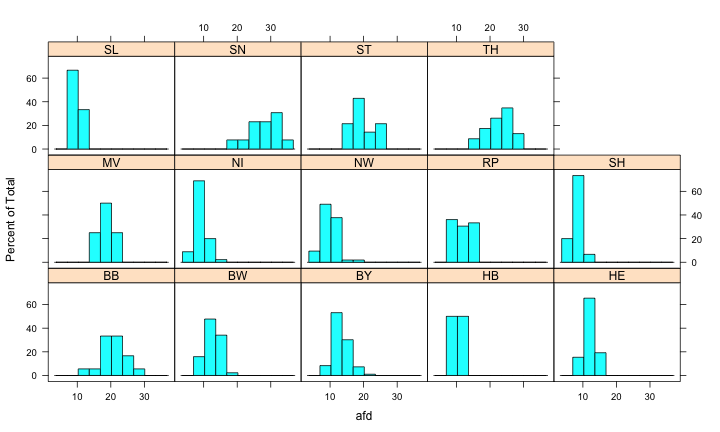
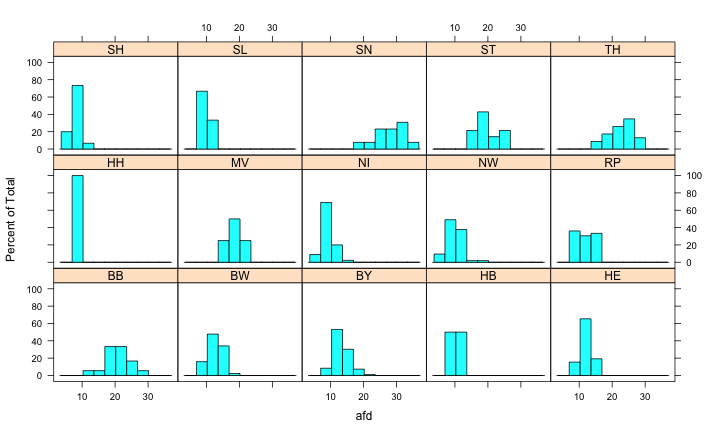
logistic regression

diff --git a/docs/f_statistics.html b/docs/f_statistics.html
@@ -23,7 +23,6 @@ class: center, middle, inverse, title-slide
 
 
 
-
 # Vorbereitungen
 
 Die Folien nutzen den Datensatz `corona_by_county`, der ab v0.0.3 im [learningR]()-Paket enthalten ist. Die Tabelle enthält zur Corona-Pandemie etliche Variablen auf Kreisebene (Landkreise, kreisfreie Städte).
@@ -175,10 +174,10 @@ head(county_data_aggr, 3)
 ```
 
 ```
-##        mean        sd
-## SH 23.27333 2.2269347
-## NI 22.68889 2.5623340
-## HB 21.50000 0.7071068
+##        mean       sd
+## SH 23.27333 2.226935
+## HH 18.20000       NA
+## NI 22.68889 2.562334
 ```
 
 ---
@@ -208,10 +207,10 @@ head(county_data_aggr, 3)
 ```
 
 ```
-##   region     mean        sd
-## 1     SH 23.27333 2.2269347
-## 2     NI 22.68889 2.5623340
-## 3     HB 21.50000 0.7071068
+##   region     mean       sd
+## 1     SH 23.27333 2.226935
+## 2     HH 18.20000       NA
+## 3     NI 22.68889 2.562334
 ```
 
 ---
@@ -230,14 +229,14 @@ corona_by_county %&gt;%
 
 ```
 ## # A tibble: 6 x 3
-##   region  mean    sd
-##   &lt;chr&gt;  &lt;dbl&gt; &lt;dbl&gt;
-## 1 BB      25.6 2.71 
-## 2 BW      20.5 1.76 
-## 3 BY      21.2 1.99 
-## 4 HB      21.5 0.707
-## 5 HE      21.5 2.57 
-## 6 MV      25.2 1.08
+##   region  mean     sd
+##   &lt;chr&gt;  &lt;dbl&gt;  &lt;dbl&gt;
+## 1 BB      25.6  2.71 
+## 2 BW      20.5  1.76 
+## 3 BY      21.2  1.99 
+## 4 HB      21.5  0.707
+## 5 HE      21.5  2.57 
+## 6 HH      18.2 NA
 ```
 
 ---
@@ -254,19 +253,20 @@ dt[!is.na(region), list(mean = mean(.SD$agequot), sd = sd(.SD$agequot)), by = "r
 ```
 ##     region     mean        sd
 ##  1:     SH 23.27333 2.2269347
-##  2:     NI 22.68889 2.5623340
-##  3:     HB 21.50000 0.7071068
-##  4:     NW 21.42075 1.5197872
-##  5:     HE 21.48462 2.5671295
-##  6:     RP 22.37500 2.0793371
-##  7:     BW 20.51591 1.7590885
-##  8:     BY 21.24687 1.9945163
-##  9:     SL 24.31667 0.9368387
-## 10:     BB 25.56667 2.7062020
-## 11:     MV 25.22500 1.0819955
-## 12:     SN 27.33846 3.0357697
-## 13:     ST 27.22143 2.3664900
-## 14:     TH 26.63043 2.6929934
+##  2:     HH 18.20000        NA
+##  3:     NI 22.68889 2.5623340
+##  4:     HB 21.50000 0.7071068
+##  5:     NW 21.42075 1.5197872
+##  6:     HE 21.48462 2.5671295
+##  7:     RP 22.37500 2.0793371
+##  8:     BW 20.51591 1.7590885
+##  9:     BY 21.24687 1.9945163
+## 10:     SL 24.31667 0.9368387
+## 11:     BB 25.56667 2.7062020
+## 12:     MV 25.22500 1.0819955
+## 13:     SN 27.33846 3.0357697
+## 14:     ST 27.22143 2.3664900
+## 15:     TH 26.63043 2.6929934
 ```
 
 ---
@@ -341,18 +341,18 @@ summary(r)
 ## 
 ## Residuals:
 ##     Min      1Q  Median      3Q     Max 
-## -62.016 -20.235  -4.869  15.037 170.976 
+## -62.035 -20.107  -4.908  15.067 171.005 
 ## 
 ## Coefficients:
 ##             Estimate Std. Error t value Pr(&gt;|t|)    
-## (Intercept)  38.9239     4.0783   9.544  &lt; 2e-16 ***
-## afd           1.8428     0.2827   6.519 2.16e-10 ***
+## (Intercept)  38.7553     4.0659   9.532  &lt; 2e-16 ***
+## afd           1.8520     0.2821   6.565 1.63e-10 ***
 ## ---
 ## Signif. codes:  0 '***' 0.001 '**' 0.01 '*' 0.05 '.' 0.1 ' ' 1
 ## 
-## Residual standard error: 30.09 on 397 degrees of freedom
-## Multiple R-squared:  0.09668,	Adjusted R-squared:  0.09441 
-## F-statistic: 42.49 on 1 and 397 DF,  p-value: 2.158e-10
+## Residual standard error: 30.07 on 398 degrees of freedom
+## Multiple R-squared:  0.09771,	Adjusted R-squared:  0.09544 
+## F-statistic:  43.1 on 1 and 398 DF,  p-value: 1.626e-10
 ```
 
 ---
@@ -381,21 +381,21 @@ str(summary(r))
 ##   .. ..- attr(*, "predvars")= language list(cases7_per_100k, afd)
 ##   .. ..- attr(*, "dataClasses")= Named chr [1:2] "numeric" "numeric"
 ##   .. .. ..- attr(*, "names")= chr [1:2] "cases7_per_100k" "afd"
-##  $ residuals    : Named num [1:399] -47.2 -7.88 -11.91 -14.26 -45.76 ...
-##   ..- attr(*, "names")= chr [1:399] "1" "2" "3" "4" ...
-##  $ coefficients : num [1:2, 1:4] 38.924 1.843 4.078 0.283 9.544 ...
+##  $ residuals    : Named num [1:400] -47.1 -7.77 -11.83 -14.19 -45.67 ...
+##   ..- attr(*, "names")= chr [1:400] "1" "2" "3" "4" ...
+##  $ coefficients : num [1:2, 1:4] 38.755 1.852 4.066 0.282 9.532 ...
 ##   ..- attr(*, "dimnames")=List of 2
 ##   .. ..$ : chr [1:2] "(Intercept)" "afd"
 ##   .. ..$ : chr [1:4] "Estimate" "Std. Error" "t value" "Pr(&gt;|t|)"
 ##  $ aliased      : Named logi [1:2] FALSE FALSE
 ##   ..- attr(*, "names")= chr [1:2] "(Intercept)" "afd"
 ##  $ sigma        : num 30.1
-##  $ df           : int [1:3] 2 397 2
-##  $ r.squared    : num 0.0967
-##  $ adj.r.squared: num 0.0944
-##  $ fstatistic   : Named num [1:3] 42.5 1 397
+##  $ df           : int [1:3] 2 398 2
+##  $ r.squared    : num 0.0977
+##  $ adj.r.squared: num 0.0954
+##  $ fstatistic   : Named num [1:3] 43.1 1 398
 ##   ..- attr(*, "names")= chr [1:3] "value" "numdf" "dendf"
-##  $ cov.unscaled : num [1:2, 1:2] 1.84e-02 -1.18e-03 -1.18e-03 8.83e-05
+##  $ cov.unscaled : num [1:2, 1:2] 0.018287 -0.001179 -0.001179 0.000088
 ##   ..- attr(*, "dimnames")=List of 2
 ##   .. ..$ : chr [1:2] "(Intercept)" "afd"
 ##   .. ..$ : chr [1:2] "(Intercept)" "afd"
@@ -482,13 +482,13 @@ stargazer::stargazer(
 &lt;tr&gt;&lt;td colspan="5" style="border-bottom: 1px solid black"&gt;&lt;/td&gt;&lt;/tr&gt;&lt;tr&gt;&lt;td style="text-align:left"&gt;&lt;/td&gt;&lt;td colspan="4"&gt;&lt;em&gt;Dependent variable:&lt;/em&gt;&lt;/td&gt;&lt;/tr&gt;
 &lt;tr&gt;&lt;td&gt;&lt;/td&gt;&lt;td colspan="4" style="border-bottom: 1px solid black"&gt;&lt;/td&gt;&lt;/tr&gt;
 &lt;tr&gt;&lt;td style="text-align:left"&gt;&lt;/td&gt;&lt;td&gt;(1)&lt;/td&gt;&lt;td&gt;(2)&lt;/td&gt;&lt;td&gt;(3)&lt;/td&gt;&lt;td&gt;(4)&lt;/td&gt;&lt;/tr&gt;
-&lt;tr&gt;&lt;td colspan="5" style="border-bottom: 1px solid black"&gt;&lt;/td&gt;&lt;/tr&gt;&lt;tr&gt;&lt;td style="text-align:left"&gt;foreign_pop_share&lt;/td&gt;&lt;td&gt;0.181&lt;sup&gt;***&lt;/sup&gt; (0.043)&lt;/td&gt;&lt;td&gt;0.200&lt;sup&gt;***&lt;/sup&gt; (0.045)&lt;/td&gt;&lt;td&gt;0.331&lt;sup&gt;***&lt;/sup&gt; (0.043)&lt;/td&gt;&lt;td&gt;0.424&lt;sup&gt;***&lt;/sup&gt; (0.069)&lt;/td&gt;&lt;/tr&gt;
+&lt;tr&gt;&lt;td colspan="5" style="border-bottom: 1px solid black"&gt;&lt;/td&gt;&lt;/tr&gt;&lt;tr&gt;&lt;td style="text-align:left"&gt;foreign_pop_share&lt;/td&gt;&lt;td&gt;0.179&lt;sup&gt;***&lt;/sup&gt; (0.043)&lt;/td&gt;&lt;td&gt;0.200&lt;sup&gt;***&lt;/sup&gt; (0.045)&lt;/td&gt;&lt;td&gt;0.331&lt;sup&gt;***&lt;/sup&gt; (0.043)&lt;/td&gt;&lt;td&gt;0.424&lt;sup&gt;***&lt;/sup&gt; (0.069)&lt;/td&gt;&lt;/tr&gt;
 &lt;tr&gt;&lt;td style="text-align:left"&gt;income&lt;/td&gt;&lt;td&gt;&lt;/td&gt;&lt;td&gt;-0.071 (0.054)&lt;/td&gt;&lt;td&gt;0.064 (0.051)&lt;/td&gt;&lt;td&gt;0.024 (0.055)&lt;/td&gt;&lt;/tr&gt;
 &lt;tr&gt;&lt;td style="text-align:left"&gt;afd&lt;/td&gt;&lt;td&gt;&lt;/td&gt;&lt;td&gt;&lt;/td&gt;&lt;td&gt;0.377&lt;sup&gt;***&lt;/sup&gt; (0.039)&lt;/td&gt;&lt;td&gt;0.374&lt;sup&gt;***&lt;/sup&gt; (0.043)&lt;/td&gt;&lt;/tr&gt;
 &lt;tr&gt;&lt;td style="text-align:left"&gt;agequot&lt;/td&gt;&lt;td&gt;&lt;/td&gt;&lt;td&gt;&lt;/td&gt;&lt;td&gt;&lt;/td&gt;&lt;td&gt;0.007 (0.052)&lt;/td&gt;&lt;/tr&gt;
 &lt;tr&gt;&lt;td style="text-align:left"&gt;per_km2&lt;/td&gt;&lt;td&gt;&lt;/td&gt;&lt;td&gt;&lt;/td&gt;&lt;td&gt;&lt;/td&gt;&lt;td&gt;-0.123&lt;sup&gt;*&lt;/sup&gt; (0.063)&lt;/td&gt;&lt;/tr&gt;
-&lt;tr&gt;&lt;td style="text-align:left"&gt;Constant&lt;/td&gt;&lt;td&gt;0.614&lt;sup&gt;***&lt;/sup&gt; (0.033)&lt;/td&gt;&lt;td&gt;0.650&lt;sup&gt;***&lt;/sup&gt; (0.043)&lt;/td&gt;&lt;td&gt;0.186&lt;sup&gt;***&lt;/sup&gt; (0.061)&lt;/td&gt;&lt;td&gt;0.253&lt;sup&gt;***&lt;/sup&gt; (0.083)&lt;/td&gt;&lt;/tr&gt;
-&lt;tr&gt;&lt;td colspan="5" style="border-bottom: 1px solid black"&gt;&lt;/td&gt;&lt;/tr&gt;&lt;tr&gt;&lt;td style="text-align:left"&gt;Adjusted R&lt;sup&gt;2&lt;/sup&gt;&lt;/td&gt;&lt;td&gt;0.041&lt;/td&gt;&lt;td&gt;0.043&lt;/td&gt;&lt;td&gt;0.224&lt;/td&gt;&lt;td&gt;0.227&lt;/td&gt;&lt;/tr&gt;
+&lt;tr&gt;&lt;td style="text-align:left"&gt;Constant&lt;/td&gt;&lt;td&gt;0.617&lt;sup&gt;***&lt;/sup&gt; (0.033)&lt;/td&gt;&lt;td&gt;0.650&lt;sup&gt;***&lt;/sup&gt; (0.043)&lt;/td&gt;&lt;td&gt;0.186&lt;sup&gt;***&lt;/sup&gt; (0.061)&lt;/td&gt;&lt;td&gt;0.253&lt;sup&gt;***&lt;/sup&gt; (0.083)&lt;/td&gt;&lt;/tr&gt;
+&lt;tr&gt;&lt;td colspan="5" style="border-bottom: 1px solid black"&gt;&lt;/td&gt;&lt;/tr&gt;&lt;tr&gt;&lt;td style="text-align:left"&gt;Adjusted R&lt;sup&gt;2&lt;/sup&gt;&lt;/td&gt;&lt;td&gt;0.040&lt;/td&gt;&lt;td&gt;0.043&lt;/td&gt;&lt;td&gt;0.224&lt;/td&gt;&lt;td&gt;0.227&lt;/td&gt;&lt;/tr&gt;
 &lt;tr&gt;&lt;td colspan="5" style="border-bottom: 1px solid black"&gt;&lt;/td&gt;&lt;/tr&gt;&lt;tr&gt;&lt;td style="text-align:left"&gt;&lt;em&gt;Note:&lt;/em&gt;&lt;/td&gt;&lt;td colspan="4" style="text-align:right"&gt;&lt;sup&gt;*&lt;/sup&gt;p&lt;0.1; &lt;sup&gt;**&lt;/sup&gt;p&lt;0.05; &lt;sup&gt;***&lt;/sup&gt;p&lt;0.01&lt;/td&gt;&lt;/tr&gt;
 &lt;/table&gt;
 
@@ -509,7 +509,56 @@ stargazer::stargazer(
 
 ---
 
+# Logistische Regression: Daten
+
+Wenn die abhängige Variable binär codiert ist, kommt die logistische Regression zum Einsatz. Ein typisches Szenario hierfür ist in der Politikwissenschaft die Wahl einer Partei.
+
+Im folgenden Szenario interessieren wir uns für die möglichen Gründe einer Wahlentscheidung zugunsten der AfD bei der Bundestagswahl 2017. Als Datengrundlage verwenden wir die GLES-Nachwahlbefragung 2017.
+
+Für die Vorbereitung des Datensatzes nutzen wir Funktionen des dplyr-Pakets.
+
+
+```r
+library(dplyr)
+library(gles)
+
+bt_min &lt;- filter(bt2017nw, !is.na(q19ba)) %&gt;% 
+  mutate(AfD = as.character(haven::as_factor(q19ba)) == "AfD") %&gt;%
+  mutate(income = as.integer(haven::as_factor(q192))) %&gt;%
+  mutate(dissatisfaction = as.integer(haven::as_factor(q33))) %&gt;%
+  mutate(citysize = as.integer(haven::as_factor(q197)))
+```
+
+Beachte: Die `glm()`-Funktion könnte auch Faktoren "verdauen"!
+
+---
+
+# Logistische Regression: Modelle
+
+Die abhängige Variable unseres ist die binär codierte Variable "AfD" mit den logischen Werten `TRUE` und `FALSE`. Wenn eine Befragte keine Angabe zur Parteiwahl gemacht hat (`NA`-Werte), haben wir den Fall aus der Analyse ausgeschlossen.
+
+Wir verfolgen - sehr grobschlächtig! - drei Hypothesen, welche die Wahl der AfD erklären könnten:
+
+- Die ökonomisch "Abgehängten" wählen AfD: Je höher das Einkommen, desto weniger wahrscheinlich ist die Wahl der Afd.
+
+- Die mit der Demokratie Unzufriedenen wählen die AfD: Je höher die Demokratiezufriedenheit, desto unwahrscheinlicher ist die Wahl der AfD.
+
+- Die AfD hat in den kosmopolitisch geprägten Städten weniger Chancen: Je größer die Stadt, desto weniger wahrscheinlich ist die Wahl der AfD.
+
+Wir berechnen hierzu zwei Modelle. Die Notation verläuft parallel zur linearen Regression ...
+
+
+```r
+m1 &lt;- glm(AfD ~ income, data = bt_min, family = binomial())
+m2 &lt;- glm(AfD ~ income + dissatisfaction + citysize, data = bt_min, family = binomial())
+```
+
+---
+
 # Literatur
+
+Field, A, J. Miles, and Z. Field (2012). _Discovering Statistics Using
+R_. Los Angeles et al.: SAGE.
 
 Sauer, S. (2019). _Moderne Datenanalyse mit R: Daten einlesen,
 aufbereiten, visualisieren, modellieren und kommunizieren_. Wiesbaden:
